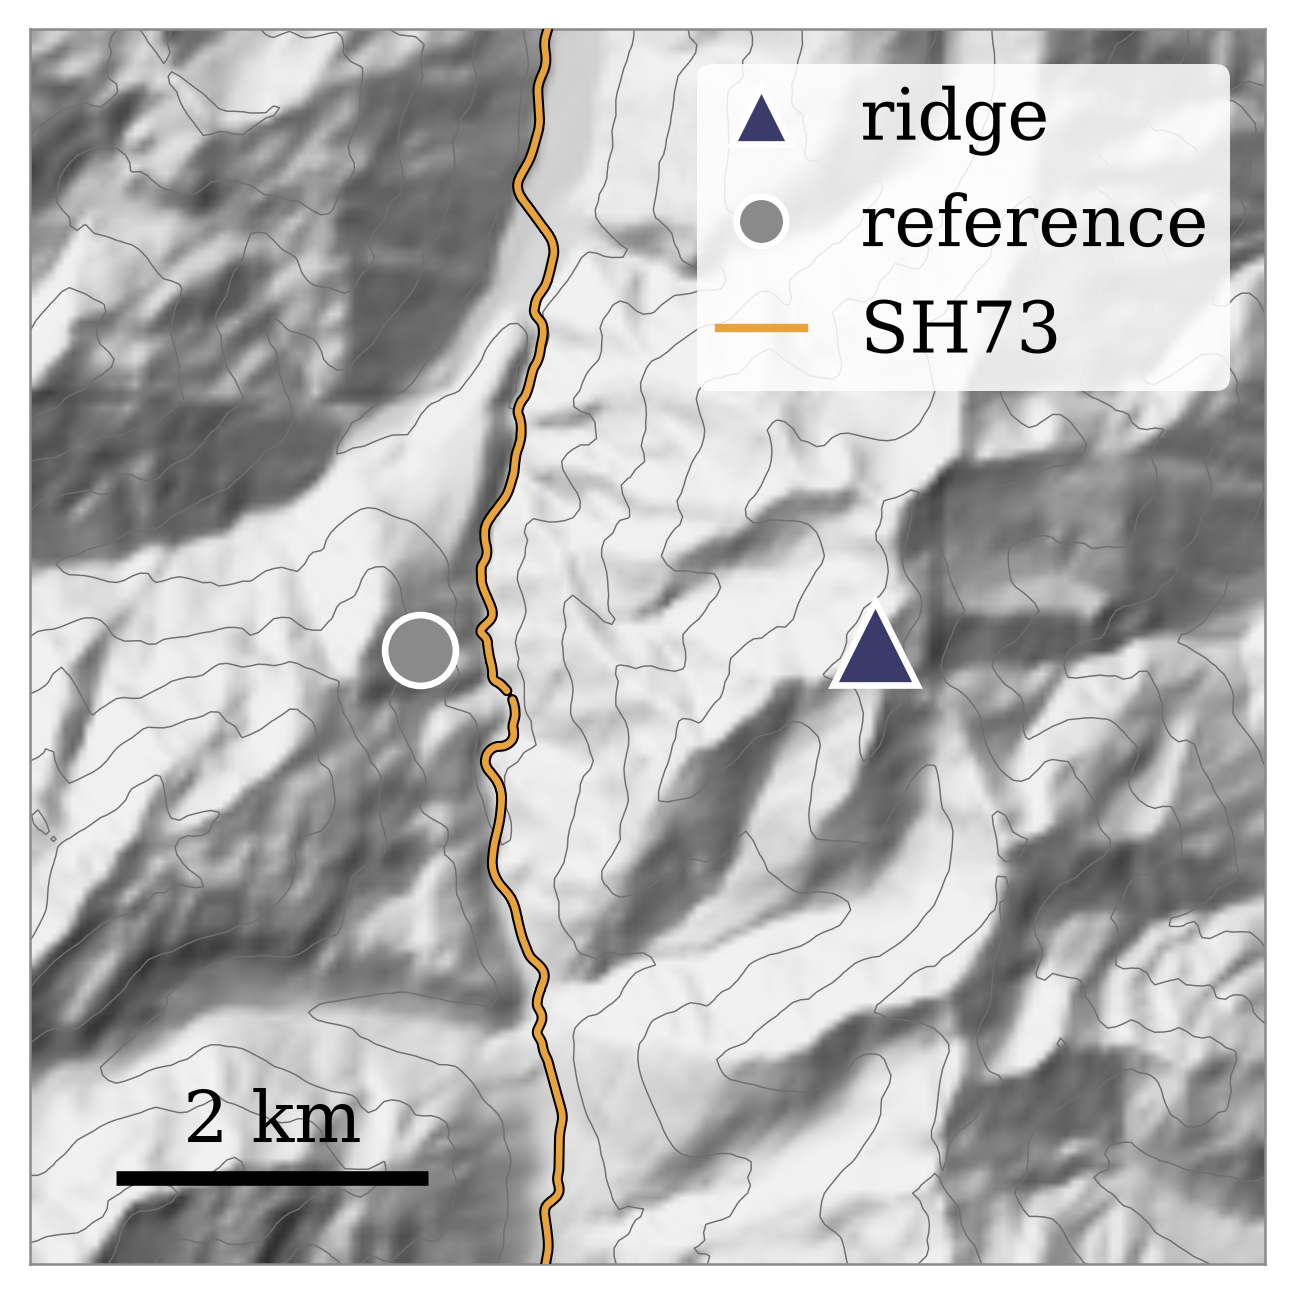
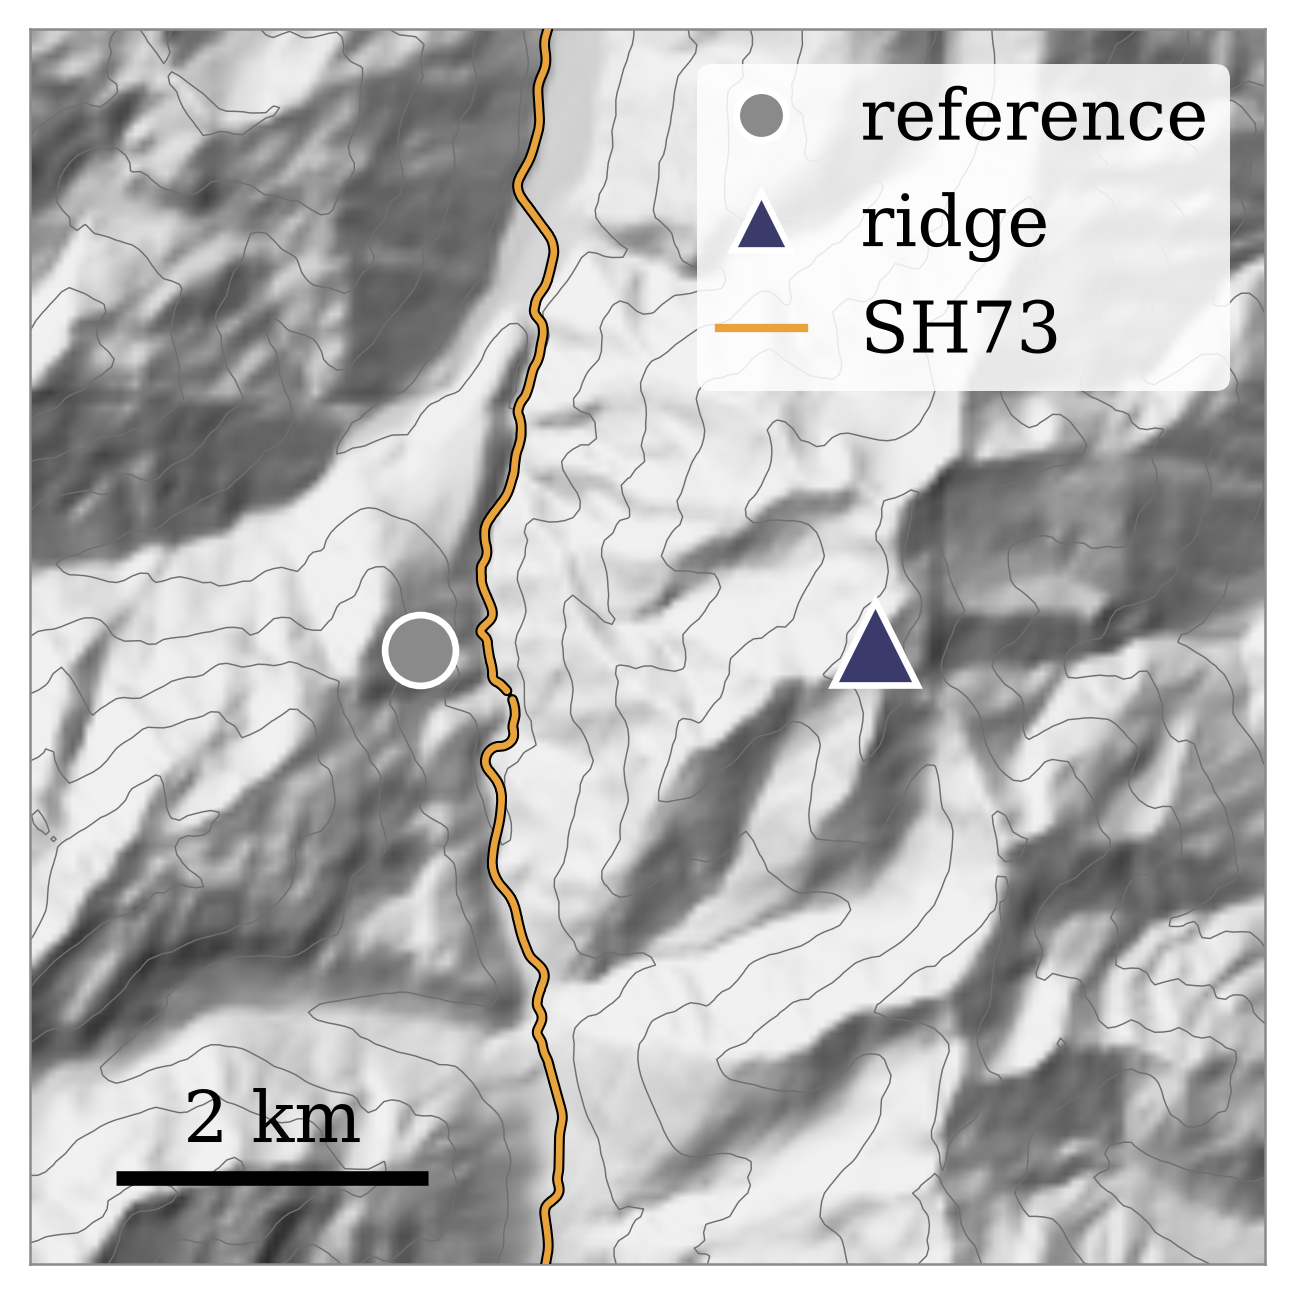
Replace the Brooklyn topography example with Sugarloaf
Brooklyn's 1.25x at 2 s sits inside the spread that flat sites show against
each other in this event, and its 45 m of relief is too small for a run
resolving 1 Hz and below. Sugarloaf, under the Kordia tower on the Port Hills
summit, is scored against every rock site within 10 km that is flat at the
1.25, 2.5 and 5 km scales: 15 references, ratio near 1 at 1-2 s rising to
about 2.4 at 4 s, from the whole massif rather than the crest.

The plot script now accepts a reference rule as well as a single station,
and draws the geometric mean with a P16-P84 band when there are several.

diff --git a/cybershake-nshm/scripts/plot_marlborough_topo.py b/cybershake-nshm/scripts/plot_marlborough_topo.py
@@ -8,10 +8,21 @@ The paired-site experiment from the topographic-effects paper
 (~/papers/moderate_crustal_topographic_effects, scripts/fig_paired_sites.py):
 take the ratio of pSA (RotD50) at a ridge site to that at a nearby reference
 site, as a field study would, and read it as topographic amplification. The
-pairs are the paper's own, chosen there from the dense array with: outside the
-supergrid, <= 5 km apart, |dVs30| <= 150 m/s, reference |H_1250| <= 10 m, ridge
-H_1250 >= 40 m. All four sites exist in this run and none sit in the supergrid,
-so nothing is reselected.
+Otira pair is the paper's own, chosen there from the dense array with: outside
+the supergrid, <= 5 km apart, |dVs30| <= 150 m/s, reference |H_1250| <= 10 m,
+ridge H_1250 >= 40 m. Both sites exist in this run and neither sits in the
+supergrid, so nothing is reselected.
+
+Sugarloaf has no single reference. Its target is the run station nearest the
+Kordia tower on the Port Hills summit, and its references are every station
+that is flat at three scales (|H_1250| <= 10 m, |H_2500| <= 20 m,
+|H_5000| <= 30 m), within 10 km, outside the supergrid and within 200 m/s in
+Vs30. A reference flat at 1250 m alone can sit in a valley or on the massif at
+the 2.5-5 km scale that 2-5 s waves see; the Vs30 window is what keeps the
+Christchurch basin out. The ratio is drawn as the geometric mean over the
+references, with their 16th-84th percentile as a band. A single-event
+flat-site-against-flat-site version of the same ratio spreads 0.74-1.29
+(P10-P90) at 2 s, so one pair inside that range says nothing.
 
 What this figure CANNOT show, and the slide has to say: this event was run with
 explicit topography only. There is no squashed (NT) companion, so the paper's
@@ -32,6 +43,7 @@ from __future__ import annotations
 
 import argparse
 import json
+from dataclasses import dataclass
 from pathlib import Path
 
 import h5py
@@ -43,13 +55,22 @@ PAPER = Path("/home/jake/papers/moderate_crustal_topographic_effects")
 DEM50 = Path("/var/tmp/copernicus/nz_dem_50m.tif")  # Copernicus GLO-30 at 50 m, NZTM
 HIGHWAYS = PAPER / "data" / "raw" / "osm_state_highways" / "overpass.json"
 
-# (label, file slug, ridge, reference): the paper's PAIRS_SEL, minus the
-# Kaikoura coast.
+# (label, file slug, ridge, reference). The reference is a station name, or a
+# NeutralRefs rule that selects every qualifying station.
+D_HILL = 1250.0  # m, diameter of the H_d averaging disk (Tiwari et al. Hill model)
+
+
+@dataclass(frozen=True)
+class NeutralRefs:
+    radius: float  # m
+    dvs30: float  # m/s
+    max_h: tuple = ((1250.0, 10.0), (2500.0, 20.0), (5000.0, 30.0))  # (D, |H_D| limit), m
+
+
 PAIRS = [
     ("Otira Viaduct", "otira", "fKtoMWL", "fKtnOWL"),
-    ("Wellington, Brooklyn", "brooklyn", "kzeniWE", "kAWduWE"),
+    ("Sugarloaf, Port Hills", "sugarloaf", "dwd0ICA", NeutralRefs(radius=10_000.0, dvs30=200.0)),
 ]
-D_HILL = 1250.0  # m, diameter of the H_d averaging disk (Tiwari et al. Hill model)
 F_DET = 1.0  # Hz, LF/HF merge; shorter periods are the stochastic HF's, not drawn
 
 plt.rcParams.update(
@@ -98,6 +119,22 @@ def load_psa(path: Path, sites: list[str]) -> dict:
     for s, r in idx.items():
         out[s] = {"psa": psa[pos[r]], **{k: float(v[pos[r]]) for k, v in meta.items()}}
     return out
+
+
+def select_references(path: Path, target: str, rule: NeutralRefs) -> list[str]:
+    """Stations that satisfy `rule` around `target`, nearest first."""
+    with h5py.File(path, "r") as f:
+        g = f["pSA"]
+        names = g["station"][:].astype(str)
+        lat, lon = g["latitude"][:], g["longitude"][:]
+        vs30, sg = g["vs30"][:], g["supergrid_depth_gp"][:]
+    x, y = to_nztm(lon, lat)
+    t = int(np.flatnonzero(names == target)[0])
+    d = np.hypot(x - x[t], y - y[t])
+    cand = np.flatnonzero((d <= rule.radius) & (sg == 0) & (np.abs(vs30 - vs30[t]) <= rule.dvs30))
+    refs = [i for i in cand[np.argsort(d[cand])] if i != t
+            and all(abs(relative_elevation(x[i], y[i], dh)[0]) <= lim for dh, lim in rule.max_h)]
+    return [str(names[i]) for i in refs]
 
 
 def relative_elevation(x: float, y: float, d: float = D_HILL) -> tuple[float, float]:
@@ -183,8 +220,11 @@ def main() -> None:
     ap.add_argument("--dpi", type=int, default=300)
     args = ap.parse_args()
 
-    sites = [s for _, _, r, q in PAIRS for s in (r, q)]
-    ims = load_psa(args.data / args.arm / "intensity_measures.h5", sites)
+    im_path = args.data / args.arm / "intensity_measures.h5"
+    refs = {slug: select_references(im_path, ridge, ref) if isinstance(ref, NeutralRefs) else [ref]
+            for _, slug, ridge, ref in PAIRS}
+    sites = sorted({s for _, slug, ridge, _ in PAIRS for s in (ridge, *refs[slug])})
+    ims = load_psa(im_path, sites)
     period = ims["period"]
     keep = (period >= 1 / F_DET) & (period <= 10)
     args.out_dir.mkdir(parents=True, exist_ok=True)
@@ -192,32 +232,44 @@ def main() -> None:
     # The slide lays each pair out as photo + map over a wide ratio plot, so
     # every panel is its own PNG and Typst does the composition. The ratio
     # plots share a y range so the two pairs read against each other.
+    # ratios[slug] = (geometric mean, P16, P84) over the references; for a
+    # single reference all three are the one ratio.
     ratios = {}
-    for label, slug, ridge, ref in PAIRS:
-        r, q = ims[ridge], ims[ref]
-        for s in (r, q):
+    for label, slug, ridge, _ in PAIRS:
+        r, qs = ims[ridge], [ims[q] for q in refs[slug]]
+        assert qs, f"{label}: no reference satisfies the rule"
+        for s in (r, *qs):
             assert s["supergrid_depth_gp"] == 0, "pair site inside the supergrid"
             s["x"], s["y"] = to_nztm(s["longitude"], s["latitude"])
             s["h"], s["z"] = relative_elevation(s["x"], s["y"])
-        dist = float(np.hypot(r["x"] - q["x"], r["y"] - q["y"]))
-        ratios[slug] = r["psa"] / q["psa"]
+        dist = np.array([np.hypot(r["x"] - q["x"], r["y"] - q["y"]) for q in qs])
+        ln = np.log(r["psa"]) - np.log([q["psa"] for q in qs])
+        ratios[slug] = tuple(np.exp(v) for v in (ln.mean(0), *np.percentile(ln, [16, 84], axis=0)))
         print(f"{label}: ridge {ridge} ({r['latitude']:.4f}, {r['longitude']:.4f}) "
-              f"H1250 {r['h']:.1f} m, z {r['z']:.0f} m, Vs30 {r['vs30']:.0f}; "
-              f"ref {ref} ({q['latitude']:.4f}, {q['longitude']:.4f}) H1250 {q['h']:.1f} m, "
-              f"z {q['z']:.0f} m, Vs30 {q['vs30']:.0f}; {dist / 1e3:.2f} km apart; Rrup {r['rrup']:.0f} km")
+              f"H1250 {r['h']:.1f} m, z {r['z']:.0f} m, Vs30 {r['vs30']:.0f}; Rrup {r['rrup']:.0f} km; "
+              f"{len(qs)} reference(s), {dist.min() / 1e3:.2f}-{dist.max() / 1e3:.2f} km away")
+        for name, q in zip(refs[slug], qs):
+            print(f"    ref {name} ({q['latitude']:.4f}, {q['longitude']:.4f}) H1250 {q['h']:.1f} m, "
+                  f"z {q['z']:.0f} m, Vs30 {q['vs30']:.0f}")
         for t in (1, 2, 3, 5, 7.5, 10):
             k = int(np.argmin(np.abs(period - t)))
-            print(f"    T = {period[k]:g} s: ridge/ref {ratios[slug][k]:.3f}")
+            gm, lo, hi = (a[k] for a in ratios[slug])
+            print(f"    T = {period[k]:g} s: ridge/ref {gm:.3f} (P16-P84 {lo:.3f}-{hi:.3f})")
 
-        # Map
+        # Map: centred on the pair, or on the target when the references
+        # surround it.
         fig, axm = plt.subplots(figsize=(4.2, 4.2), constrained_layout=True)
-        cx, cy = (r["x"] + q["x"]) / 2, (r["y"] + q["y"]) / 2
-        half = max(3500.0, 0.5 * dist + 2500)
+        if len(qs) == 1:
+            cx, cy = (r["x"] + qs[0]["x"]) / 2, (r["y"] + qs[0]["y"]) / 2
+            half = max(3500.0, 0.5 * dist[0] + 2500)
+        else:
+            cx, cy = r["x"], r["y"]
+            half = dist.max() + 1500
         hillshade(axm, cx - half, cx + half, cy - half, cy + half)
-        axm.plot(r["x"], r["y"], "^", ms=20, mfc=RIDGE_COLOUR, mec="white", mew=1.6, zorder=6,
+        axm.plot([q["x"] for q in qs], [q["y"] for q in qs], "o", ms=17 if len(qs) == 1 else 10,
+                 mfc=REF_COLOUR, mec="white", mew=1.6 if len(qs) == 1 else 1.0, zorder=6, label="reference")
+        axm.plot(r["x"], r["y"], "^", ms=20, mfc=RIDGE_COLOUR, mec="white", mew=1.6, zorder=7,
                  label="ridge")
-        axm.plot(q["x"], q["y"], "o", ms=17, mfc=REF_COLOUR, mec="white", mew=1.6, zorder=6,
-                 label="reference")
         axm.set_xlim(cx - half, cx + half)
         axm.set_ylim(cy - half, cy + half)
         axm.set_aspect("equal")
@@ -228,7 +280,7 @@ def main() -> None:
             sp.set_visible(True)
             sp.set_linewidth(0.6)
             sp.set_color("#8a8a8a")
-        scale_bar(axm)
+        scale_bar(axm, km=2 if half < 6000 else 5)
         # Separation, H_1250 and Vs30 go in the slide text: at the size the
         # map is shown, a caption drawn here would be unreadable.
         out = args.out_dir / f"marlborough-topo-{slug}-map.png"
@@ -236,12 +288,15 @@ def main() -> None:
         plt.close(fig)
         print(f"wrote {out}")
 
-    hi = max(ratios[slug][keep].max() for slug in ratios) * 1.05
-    lo = min(0.9, min(ratios[slug][keep].min() for slug in ratios))
+    hi = max(ratios[slug][2][keep].max() for slug in ratios) * 1.05
+    lo = min(0.9, min(ratios[slug][1][keep].min() for slug in ratios))
     for label, slug, _, _ in PAIRS:
+        gm, p16, p84 = ratios[slug]
         fig, axr = plt.subplots(figsize=(6.4, 3.3), constrained_layout=True)
         axr.axhline(1, color="#8a8a8a", lw=1.0, zorder=1)
-        axr.plot(period[keep], ratios[slug][keep], "-", color=T_COLOUR, lw=2.8, zorder=3)
+        if len(refs[slug]) > 1:
+            axr.fill_between(period[keep], p16[keep], p84[keep], color=RIDGE_COLOUR, alpha=0.18, lw=0, zorder=2)
+        axr.plot(period[keep], gm[keep], "-", color=T_COLOUR, lw=2.8, zorder=3)
         axr.set_xscale("log")
         ticks = [1, 2, 3, 5, 10]
         axr.set_xticks(ticks, [f"{t:g}" for t in ticks])
